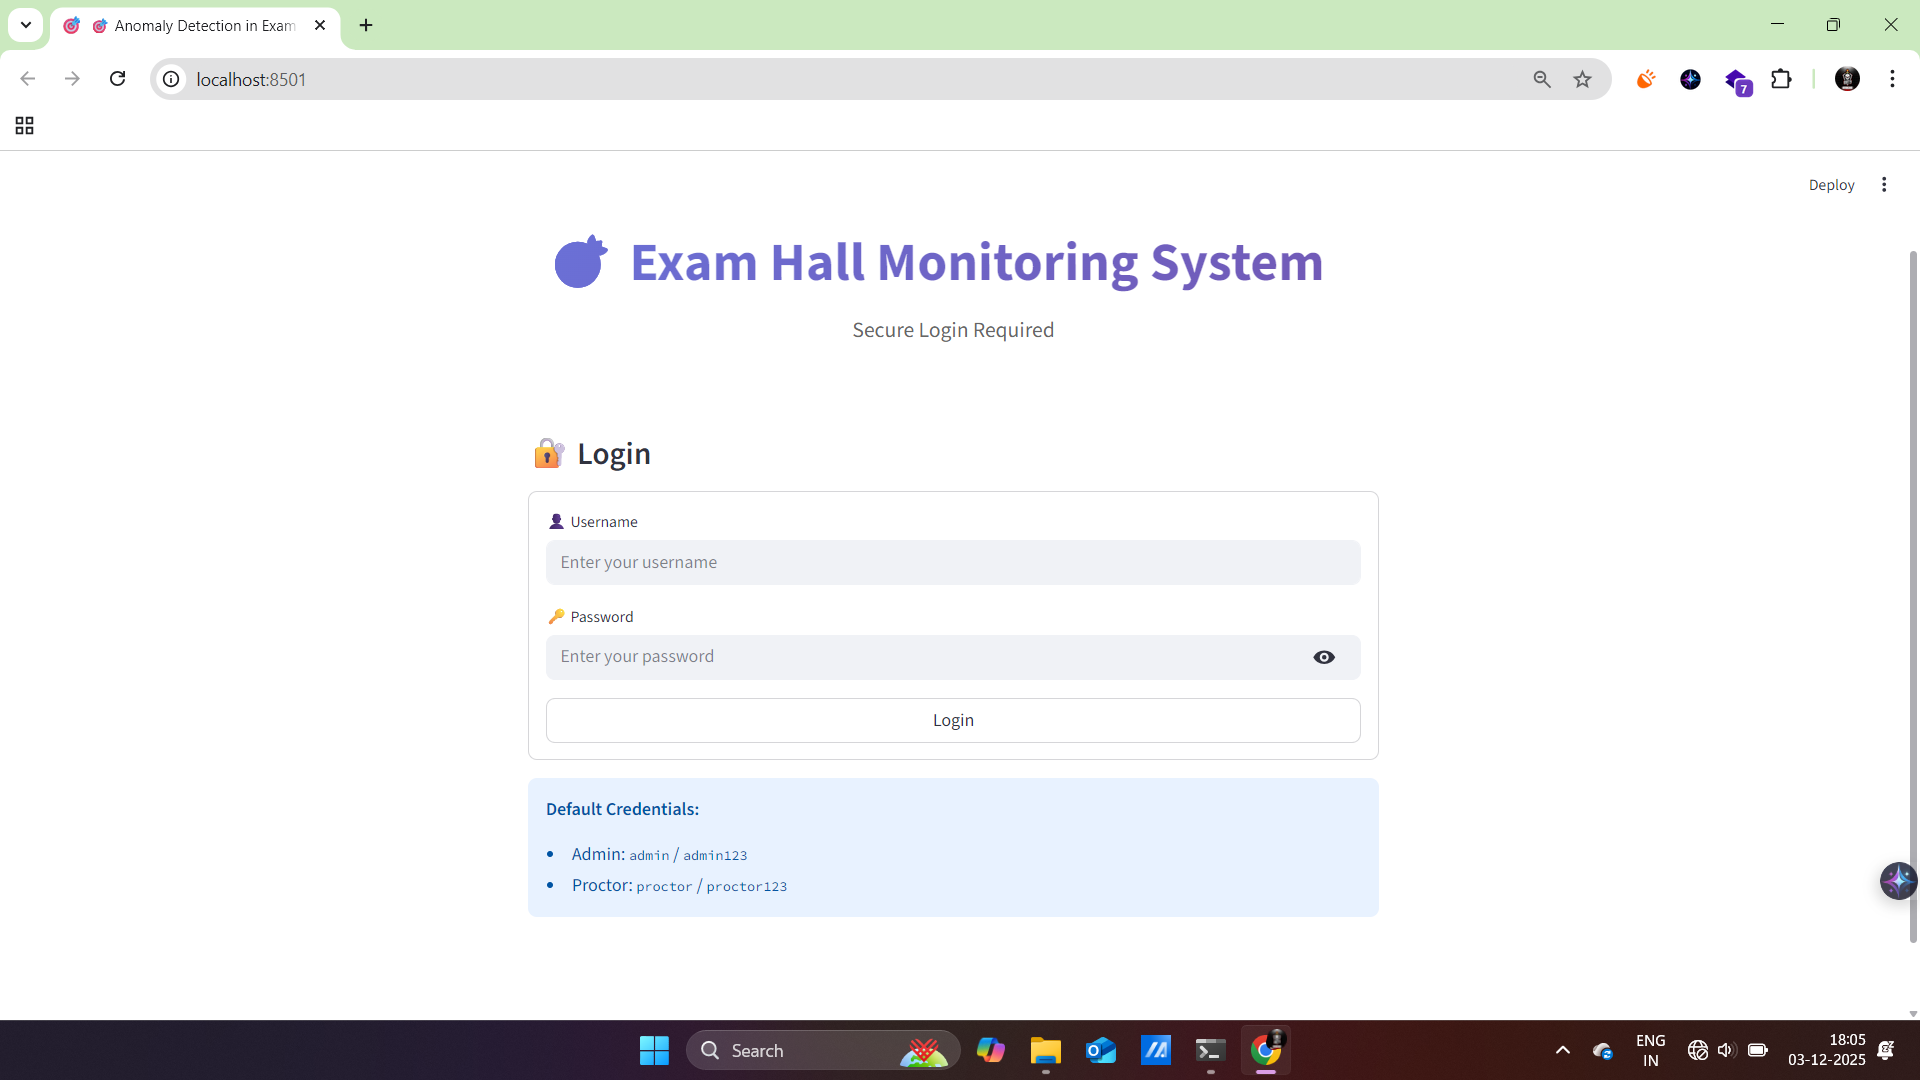
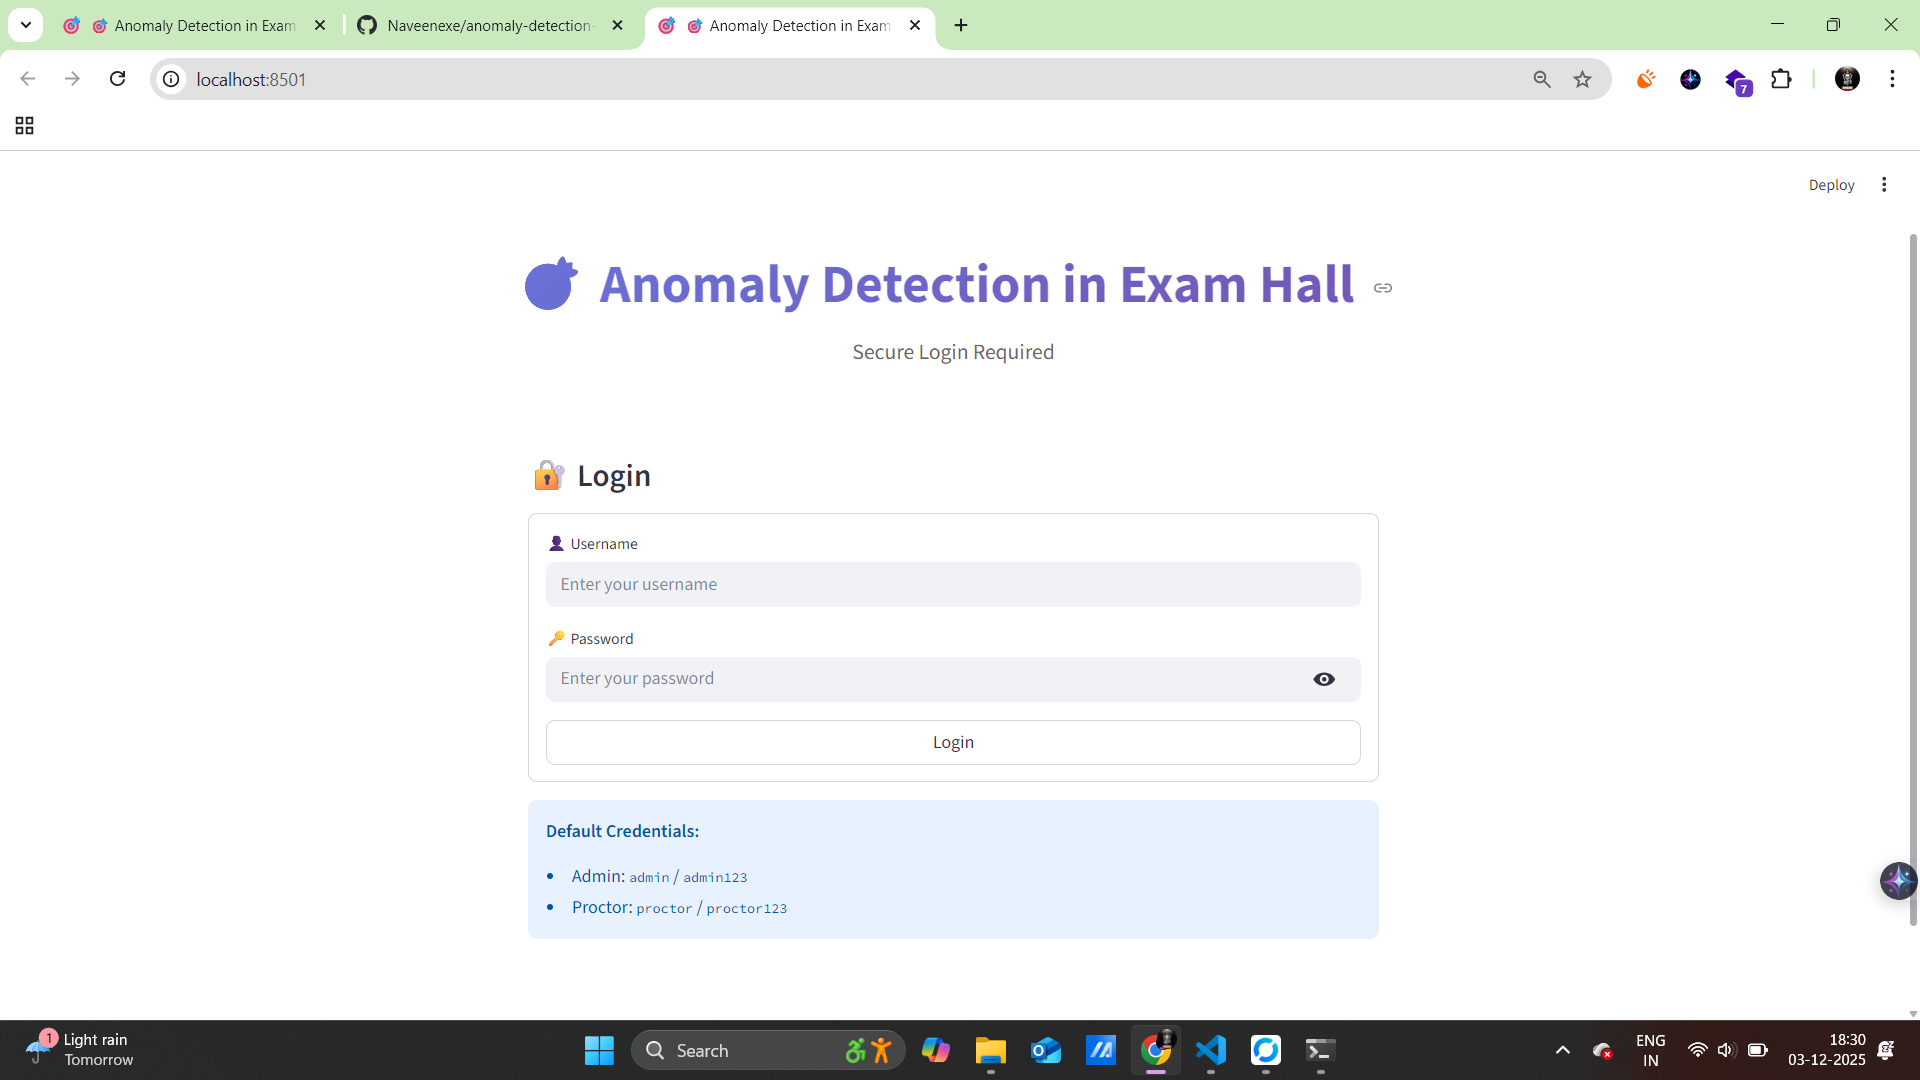
Update README with new screenshots

diff --git a/streamlit_app_enhanced.py b/streamlit_app_enhanced.py
@@ -45,7 +45,7 @@ def login_page():
     <div style='text-align: center; padding: 50px 0;'>
         <h1 style='font-size: 3rem; background: linear-gradient(135deg, #667eea 0%, #764ba2 100%);
                    -webkit-background-clip: text; -webkit-text-fill-color: transparent;'>
-            🎯 Exam Hall Monitoring System
+            🎯 Anomaly Detection in Exam Hall
         </h1>
         <p style='color: #666; font-size: 1.2rem;'>Secure Login Required</p>
     </div>

diff --git a/README.md b/README.md
@@ -98,15 +98,11 @@ An advanced AI-powered academic integrity monitoring system that uses state-of-t
 
 ## 📸 Screenshots
 
-### Dashboard
+### Dashboard Overview
 ![Dashboard Overview](screenshots/Screenshot%20(72).png)
 *Real-time monitoring dashboard with KPIs and quick actions*
 
-### Login & Authentication
-![Login Screen](screenshots/Screenshot%20(73).png)
-*Secure authentication with role-based access control*
-
-### Video Analysis
+### Video Analysis Interface
 ![Video Analysis](screenshots/Screenshot%20(74).png)
 *Upload and analyze exam hall videos with adjustable parameters*
 
@@ -114,7 +110,7 @@ An advanced AI-powered academic integrity monitoring system that uses state-of-t
 ![Detection Results](screenshots/Screenshot%20(75).png)
 *Interactive timeline showing detected anomalies with confidence scores*
 
-### Behavior Distribution
+### Behavior Distribution Analytics
 ![Behavior Distribution](screenshots/Screenshot%20(76).png)
 *Visual analytics with pie charts and bar graphs*
 
@@ -126,17 +122,29 @@ An advanced AI-powered academic integrity monitoring system that uses state-of-t
 ![Reports Page](screenshots/Screenshot%20(78).png)
 *Generate PDF and CSV reports with one click*
 
-### Model Training
+### Model Training Interface
 ![Model Training](screenshots/Screenshot%20(79).png)
-*Admin interface for training new models*
+*Admin interface for training and managing models*
 
-### User Management
+### User Management Panel
 ![User Management](screenshots/Screenshot%20(80).png)
 *Admin panel for managing users and roles*
 
-### Audit Log
+### Audit Log Viewer
 ![Audit Log](screenshots/Screenshot%20(81).png)
 *Complete audit trail of system events and user actions*
+
+### Live Monitor - Frame Analysis
+![Live Monitor Frame 1](screenshots/Screenshot%20(92).png)
+*Real-time per-frame prediction overlay with confidence scores*
+
+### Dashboard Analytics
+![Dashboard Analytics 1](screenshots/Screenshot%20(96).png)
+*Comprehensive analytics and performance metrics*
+
+### Advanced Analytics Dashboard
+![Dashboard Analytics 2](screenshots/Screenshot%20(97).png)
+*Detailed behavior classification and trend analysis*
 
 ## 🛠 Technology Stack
 
